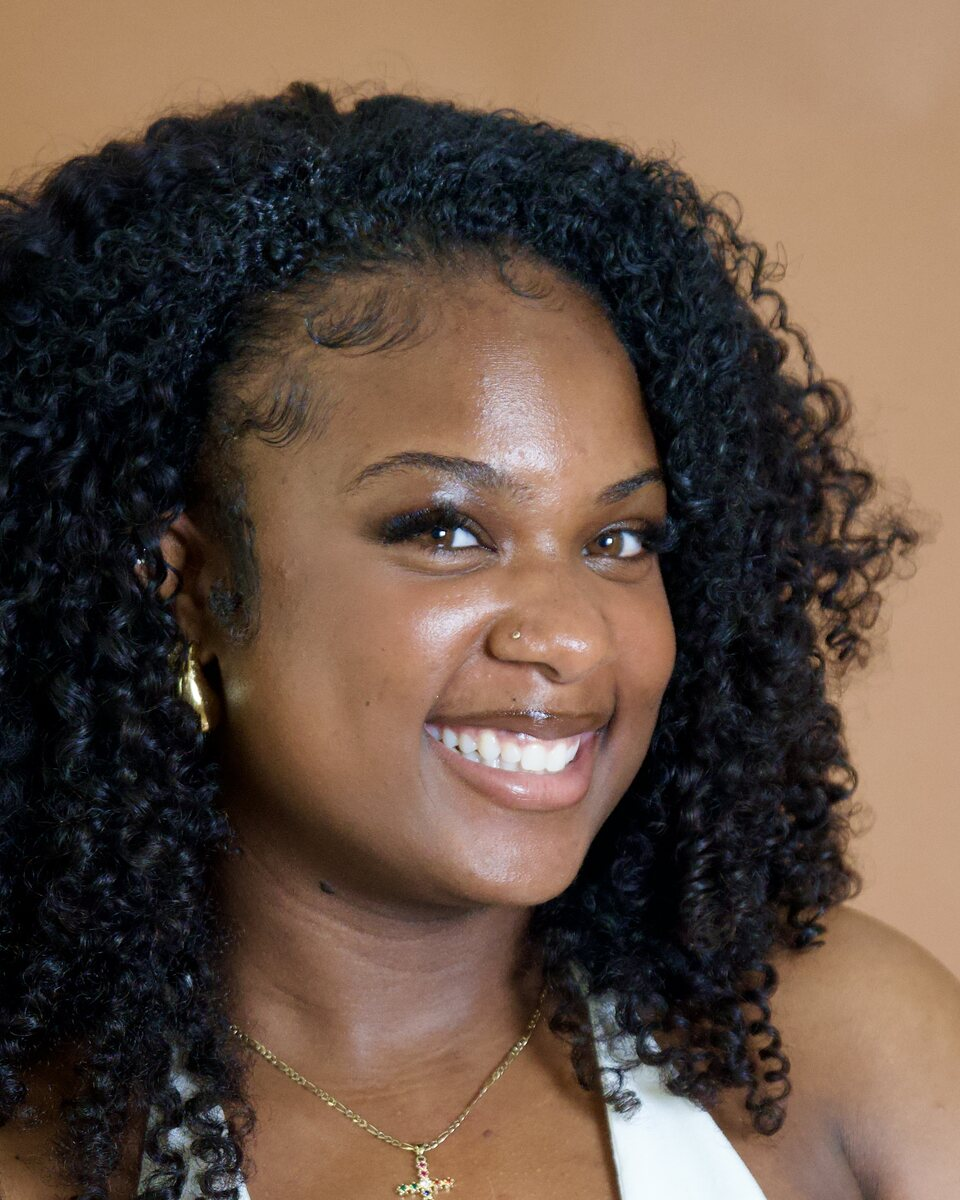
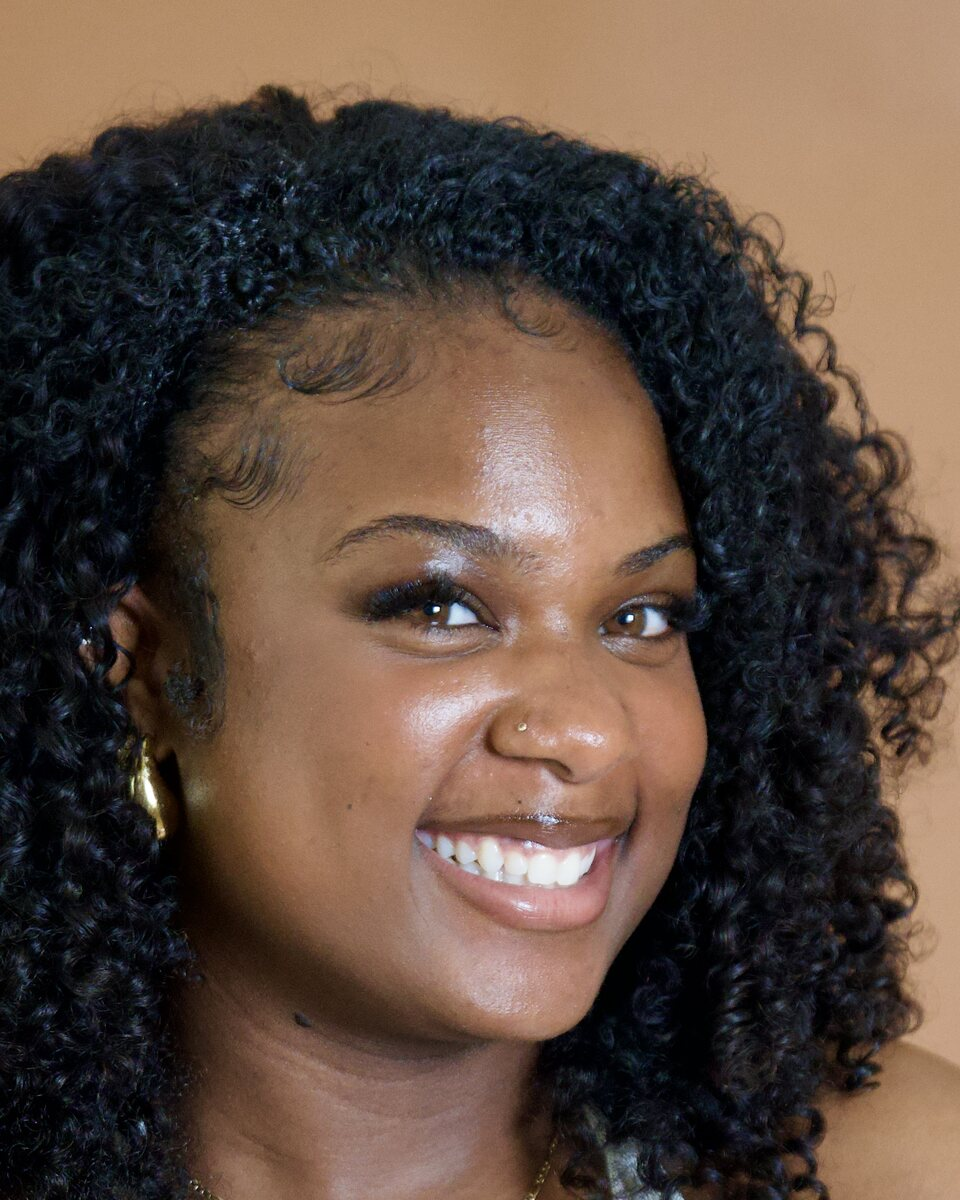
Face-only crop for Ashanika, update Khaliah's description

diff --git a/index.html b/index.html
@@ -511,7 +511,7 @@
           <div>
             <span class="role">Volunteer</span>
             <h3>Khaliah McIntosh</h3>
-            <p>Khaliah volunteers with Girls With Purpose, supporting the girls and the team at every session.</p>
+            <p>Khaliah volunteers with Girls With Purpose and helps facilitate the sessions, supporting the girls and the team.</p>
           </div>
         </article>
       </div>
